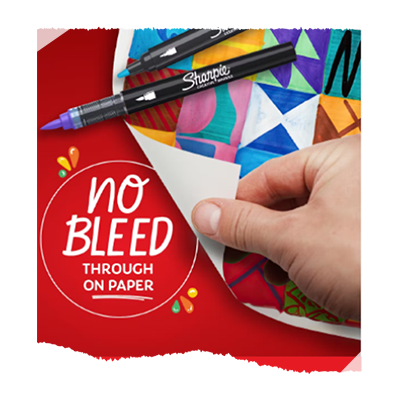
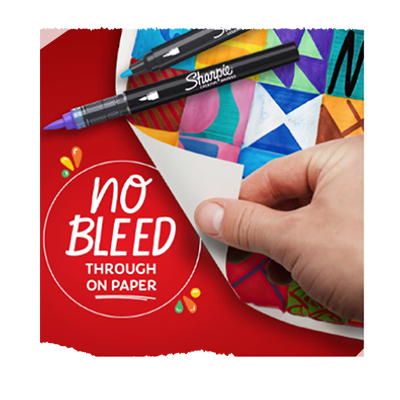
sustituir img

diff --git a/INICIO/index.html b/INICIO/index.html
@@ -56,7 +56,7 @@
             
             <div class="container2">
                 <div class="box2 three"><a href="#"><img src="img/product2.png" alt="" width="100%"></a></div>
-                <div class="box2 four"><a href="#"><img src="img/5.avif" alt="" width="100%"></a></div>
+                <div class="box2 four"><a href="#"><img src="img/product3.png" alt="" width="100%"></a></div>
                 <div class="box2 five"><a href="#"><img src="img/6.avif" alt="" width="100%"></a></div>
                 <div class="box2 six"><a href="#"><img src="img/7.avif" alt="" width="100%"></a></div>
             </div>
